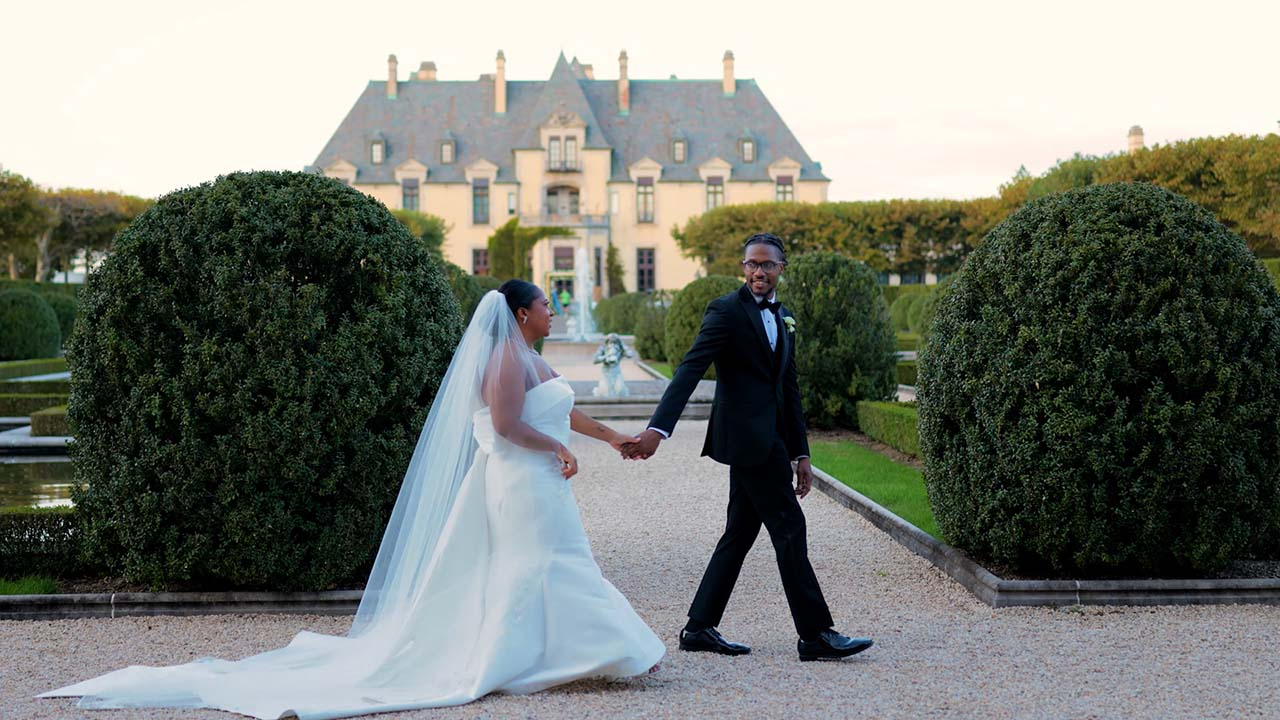
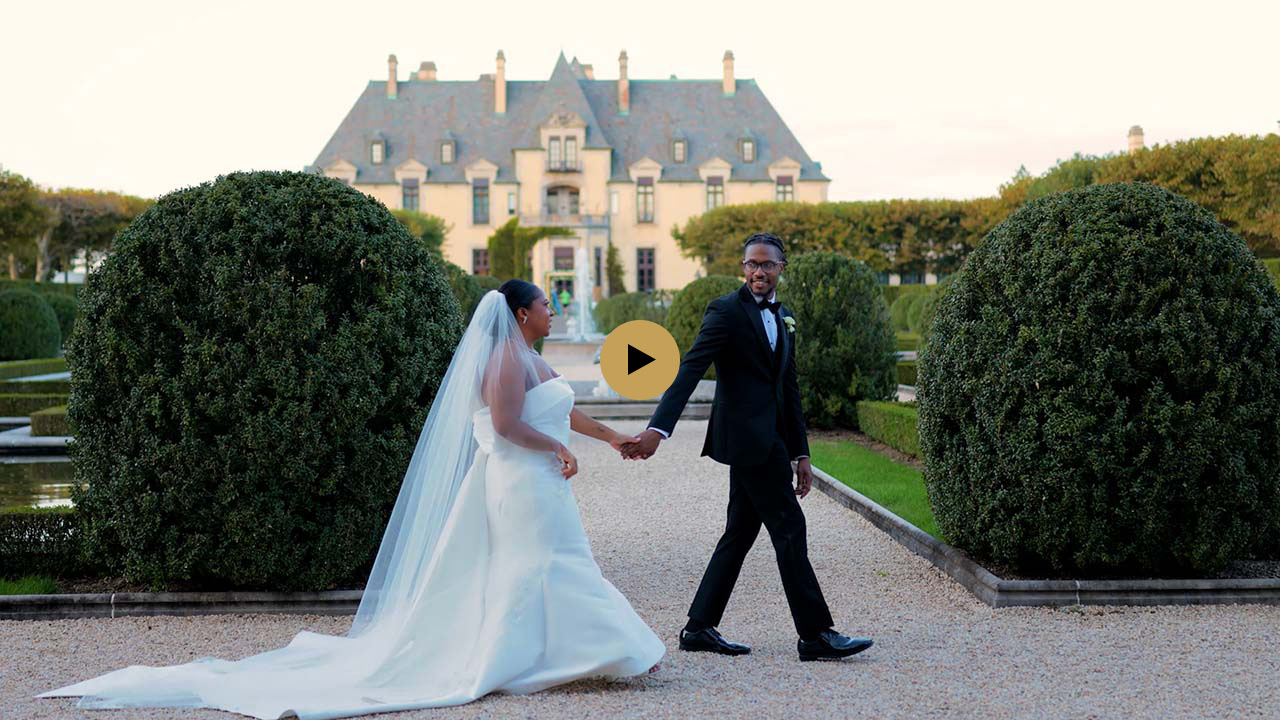
Add files via upload

Changed region(s): [[0.4688, 0.4278, 0.5312, 0.55]]

diff --git a/css/styles.css b/css/styles.css
@@ -148,8 +148,23 @@
 .two-row-small .portfolio-overlay {
     transition: opacity 0.3s ease;
 }
-.two-row-small:hover .portfolio-overlay {
+.two-row-small:hover .portfolio-overlay,
+.two-row-large:hover .portfolio-overlay {
     opacity: 1;
+}
+.two-row-large .portfolio-overlay {
+    justify-content: center;
+    align-items: center;
+}
+.two-row-large .play-button {
+    position: static;
+    transform: none;
+    width: clamp(44px, 6vw, 80px);
+    height: clamp(44px, 6vw, 80px);
+    font-size: clamp(1rem, 2.5vw, 2rem);
+}
+.two-row-large .play-button:hover {
+    transform: scale(1.1);
 }
 @media (max-width: 900px) {
     .two-row-small-row {
@@ -537,14 +552,60 @@
    ============================================ */
 
 .services.services-simple {
-    padding: 4rem 0 2rem 0;
+    padding: 4rem 0 4rem 0;
     background: var(--secondary-color);
 }
 
 .services-grid-4 {
     display: grid;
     grid-template-columns: repeat(4, 1fr);
-    gap: 2rem;
+    gap: 3rem;
+}
+
+.services-grid-3 {
+    display: grid;
+    grid-template-columns: repeat(3, 1fr);
+    gap: 3rem;
+    margin-top: 2rem;
+    padding-top: 2rem;
+    border-top: 1px solid var(--accent-color);
+}
+
+.service-value {
+    padding: 0.5rem 0.5rem 0.5rem;
+    text-align: center;
+}
+
+.service-value-icon {
+    display: block;
+    font-size: 1.4rem;
+    margin-bottom: 0.5rem;
+}
+
+.service-value-icon svg {
+    width: 28px;
+    height: 28px;
+    color: var(--accent-color);
+    display: inline-block;
+}
+
+.service-value h3 {
+    color: var(--accent-color);
+    font-size: 1.1rem;
+    font-weight: 600;
+    margin-bottom: 0.6rem;
+}
+
+.service-value p {
+    color: var(--text-light);
+    font-size: 0.9rem;
+    line-height: 1.6;
+}
+
+@media (max-width: 768px) {
+    .services-grid-3 {
+        grid-template-columns: 1fr;
+    }
 }
 
 .service-square {
@@ -680,6 +741,19 @@ body {
     font-weight: 300;
     letter-spacing: 3px;
     color: var(--accent-color);
+    display: flex;
+    flex-direction: column;
+    line-height: 1.2;
+    font-family: "Cormorant Garamond", ui-serif, Georgia, serif;
+}
+
+.brand-sub {
+    font-size: 0.6rem;
+    font-weight: 400;
+    letter-spacing: 2px;
+    color: var(--text-light);
+    text-transform: uppercase;
+    font-family: "Inter", ui-sans-serif, system-ui, sans-serif;
 }
 
 .nav-menu {
@@ -931,6 +1005,12 @@ body {
     color: #fff;
     margin: 0;
 }
+.two-row-large .compact-bottom-info .portfolio-title {
+    font-size: clamp(0.8rem, 2vw, 1.3rem);
+}
+.two-row-large .compact-bottom-info .portfolio-date {
+    font-size: clamp(0.65rem, 1.4vw, 0.9rem);
+}
 .compact-bottom-info .portfolio-date {
     font-size: 0.65rem;
     opacity: 0.8;
@@ -1122,10 +1202,38 @@ body {
 }
 
 .footer-content {
-    display: grid;
-    grid-template-columns: repeat(auto-fit, minmax(250px, 1fr));
+    display: flex;
+    justify-content: space-between;
+    align-items: center;
     gap: 2rem;
     margin-bottom: 2rem;
+    flex-wrap: wrap;
+}
+
+.footer-brand h3 {
+    color: var(--accent-color);
+    font-size: 1.3rem;
+    font-weight: 300;
+    margin-bottom: 0.4rem;
+    display: flex;
+    flex-direction: column;
+    line-height: 1.2;
+    font-family: "Cormorant Garamond", ui-serif, Georgia, serif;
+}
+
+.footer-brand p {
+    color: var(--text-light);
+    font-size: 0.9rem;
+    margin: 0;
+}
+
+.footer-content .footer-links {
+    display: flex;
+    flex-direction: row;
+    gap: 2rem;
+    list-style: none;
+    padding: 0;
+    margin: 0;
 }
 
 .footer-section h3 {

diff --git a/index.html b/index.html
@@ -5,7 +5,7 @@
     <meta name="viewport" content="width=device-width, initial-scale=1.0">
     <meta name="description" content="Professional wedding video editor portfolio. Capturing your most precious moments with cinematic storytelling.">
     <meta name="referrer" content="strict-origin-when-cross-origin">
-    <title>Wedding Video Editor | Professional Cinematography</title>
+    <title>Wedding Post-production | Ruzeldave</title>
     <link rel="stylesheet" href="css/styles.css">
 </head>
 <body>
@@ -14,13 +14,12 @@
         <div class="container">
             <div class="navbar-content">
                 <div class="logo">
-                    <h1>Wedding Films</h1>
+                    <h1>Ruzeldave<span class="brand-sub">Wedding Post-Production</span></h1>
                 </div>
                 <ul class="nav-menu">
                     <li><a href="#home">Home</a></li>
                     <li><a href="#portfolio">Portfolio</a></li>
                     <li><a href="#about">About</a></li>
-                    <li><a href="#pricing">Pricing</a></li>
                 </ul>
                 <div class="hamburger">
                     <span></span>
@@ -35,8 +34,8 @@
 
     <section id="home" class="hero">
         <div class="hero-content">
-            <h2 class="hero-title">Your Love Story, Beautifully Told</h2>
-            <p class="hero-subtitle">Cinematic wedding videos that capture the emotion and joy of your special day</p>
+            <h2 class="hero-title">Every Love Story, Beautifully Told</h2>
+            <p class="hero-subtitle">Timeless cinematic wedding post-production for filmmakers and creators</p>
             <a href="#portfolio" class="cta-button" style="margin-top:2rem;">Portfolio</a>
         </div>
         <div class="hero-bg"></div>
@@ -54,9 +53,9 @@
                 </div>
                 <div class="about-text">
                     <h2 class="section-title">About Me</h2>
-                    <p>With over 8 years of experience in wedding cinematography, I specialize in capturing the authentic emotions and unforgettable moments that make your wedding day unique.</p>
-                    <p>My approach combines cinematic storytelling with a documentary-style sensitivity. I believe every wedding has a unique story—and my job is to tell it beautifully.</p>
-                    <p>I'm passionate about creating films that you'll treasure for a lifetime, combining stunning visuals with genuine emotion.</p>
+                    <p>With over 4 years of experience in timeless wedding post-production, I specialize in keeping the authentic emotions and unforgettable moments that make everywedding day unique.</p>
+                    <p>I combine cinematic storytelling with a documentary-style sensitivity. I believe every wedding has a unique story—and my job is to tell it beautifully. Maintaining the brand of every filmmaker I work with.</p>
+                    <p>I'm passionate about crafting films that the couple will treasure for a lifetime.</p>
                 </div>
             </div>
         </div>
@@ -68,21 +67,15 @@
             <h2 class="section-title">Featured Work</h2>
             <div class="two-row-grid">
                 <div class="two-row-large">
-                    <div class="video-container">
-                                                <div style="position:relative;aspect-ratio:16/9;">
-                                                    <iframe
-                                                                loading="lazy" title="Gumlet video player"
-                                                                src="https://play.gumlet.io/embed/69d7bd2ae2653946cb388377"
-                                                                style="border:none; position: absolute; top: 0; left: 0; height: 100%; width: 100%;"
-                                                            referrerpolicy="origin"
-                                                            allow="accelerometer; gyroscope; autoplay; encrypted-media; picture-in-picture; fullscreen;clipboard-write;">
-                                                            </iframe>
-                                                </div>
-                        <h3 class="highlight-badge">HIGHLIGHT</h3>
-                        <div class="video-info">
-                            <span class="portfolio-label">Featured</span>
-                            <h3>Dominique & Sean</h3>
-                            <p>December 2024</p>
+                    <div class="portfolio-image">
+                        <img src="assets/images/Dominique and Sean.jpg" alt="Dominique and Sean wedding highlight">
+                        <span class="compact-label">Highlight</span>
+                        <div class="compact-bottom-info">
+                            <h3 class="portfolio-title">Dominique & Sean</h3>
+                            <p class="portfolio-date">December 2024</p>
+                        </div>
+                        <div class="portfolio-overlay">
+                            <button class="play-button play-button-sm" aria-label="Play video">▶</button>
                         </div>
                     </div>
                 </div>
@@ -115,7 +108,7 @@
                     </div>
                     <div class="two-row-small compact-item">
                         <div class="portfolio-image">
-                            <img src="assets/images/ Alexandra and Jacob .jpg" alt="">
+                            <img src="assets/images/Alexandra and Jacob  .jpg" alt="">
                             <span class="compact-label">Highlight</span>
                             <div class="compact-bottom-info">
                                 <h3 class="portfolio-title">Alexandra & Jacob</h3>
@@ -147,7 +140,7 @@
     <!-- Services Section -->
     <section id="services" class="services services-simple">
         <div class="container">
-            <h2 class="section-title services-title-left">Wedding Post Production</h2>
+            <h2 class="section-title services-title-left">Wedding Post-Production</h2>
             <div class="services-grid-4">
                 <div class="service-square">
                     <h3>Highlight</h3>
@@ -158,42 +151,48 @@
                     <p>1-minute fast-paced teaser video, perfect for sharing on social media soon after your wedding.</p>
                 </div>
                 <div class="service-square">
-                    <h3>Feature Film</h3>
-                    <p>15-30 minute feature film with full storytelling, speeches, and all the emotional highlights of your celebration.</p>
+                    <h3>Short Film</h3>
+                    <p>10-15 minute feature film with full storytelling, speeches, and all the emotional highlights of your celebration.</p>
                 </div>
                 <div class="service-square">
-                    <h3>Fulls Edit</h3>
+                    <h3>Full Edit</h3>
                     <p>Complete documentary-style edit or full-length coverage of your ceremony and reception, preserving every detail.</p>
+                </div>
+            </div>
+            <div class="services-grid-3">
+                <div class="service-value">
+                    <span class="service-value-icon"><svg xmlns="http://www.w3.org/2000/svg" viewBox="0 0 24 24" fill="currentColor"><path d="M13 2L3 14h9v8l9-12h-9V2z"/></svg></span>
+                    <h3>Scale Faster</h3>
+                    <p>More bookings without the editing bottleneck</p>
+                </div>
+                <div class="service-value">
+                    <span class="service-value-icon"><svg xmlns="http://www.w3.org/2000/svg" viewBox="0 0 24 24" fill="currentColor"><path d="M18 4l2 3h-3l-2-3h-2l2 3h-3l-2-3H8l2 3H7L5 4H4a2 2 0 0 0-2 2v12a2 2 0 0 0 2 2h16a2 2 0 0 0 2-2V4h-4z"/></svg></span>
+                    <h3>Free Test Edit</h3>
+                    <p>Let me know how to edit it your way</p>
+                </div>
+                <div class="service-value">
+                    <span class="service-value-icon"><svg xmlns="http://www.w3.org/2000/svg" viewBox="0 0 24 24" fill="currentColor"><path d="M12 21.35l-1.45-1.32C5.4 15.36 2 12.28 2 8.5 2 5.42 4.42 3 7.5 3c1.74 0 3.41.81 4.5 2.09C13.09 3.81 14.76 3 16.5 3 19.58 3 22 5.42 22 8.5c0 3.78-3.4 6.86-8.55 11.54L12 21.35z"/></svg></span>
+                    <h3>Consistent Quality</h3>
+                    <p>I learn your style and maintain your brand</p>
                 </div>
             </div>
         </div>
     </section>
-
-    <!-- Footer -->
     <footer class="footer">
         <div class="container">
             <div class="footer-content">
-                <div class="footer-section">
-                    <h3>Wedding Films</h3>
-                    <p>Cinematic wedding videos that capture your most precious moments.</p>
+                <div class="footer-brand">
+                    <h3>Ruzeldave<span class="brand-sub">Wedding Post-Production</span></h3>
+                    <p>Timeless cinematic wedding video editing that captures every precious moment.</p>
                 </div>
-                <div class="footer-section">
-                    <h4>Quick Links</h4>
-                    <ul class="footer-links">
-                        <li><a href="#home">Home</a></li>
-                        <li><a href="#portfolio">Portfolio</a></li>
-                        <li><a href="#about">About</a></li>
-                        
-                    </ul>
-                </div>
-                <div class="footer-section">
-                    <h4>Contact</h4>
-                    <p><strong>Email:</strong> </p>
-                    <p><strong>Phone:</strong> </p>
-                </div>
+                <ul class="footer-links">
+                    <li><a href="#home">Home</a></li>
+                    <li><a href="#portfolio">Portfolio</a></li>
+                    <li><a href="#about">About</a></li>
+                </ul>
             </div>
             <div class="footer-bottom">
-                <p>&copy; 2026 Wedding Films. All rights reserved.</p>
+                <p>&copy; 2026 Ruzeldave. All rights reserved.</p>
             </div>
         </div>
     </footer>

diff --git a/js/script.js b/js/script.js
@@ -93,6 +93,7 @@ document.querySelectorAll('.portfolio-item').forEach(item => {
 const videoUrls = {
     // Use a known embeddable Vimeo video for all items for testing
     'Michael & Jessica': 'https://play.gumlet.io/embed/69d7bd2ae2653946cb388377',
+    'Dominique & Sean': 'https://play.gumlet.io/embed/69d7bd2ae2653946cb388377',
     'Douglas & Nick': 'https://play.gumlet.io/embed/69d7acd779cd218090ffb26c',
     'Lauren & Johnny': 'https://play.gumlet.io/embed/69d7b39ae2653946cb3798be',
     'Alexandra & Jacob': 'https://play.gumlet.io/embed/69d7b68779cd21809000aa64',
@@ -145,13 +146,12 @@ function closeVideoModal() {
 document.querySelectorAll('.play-button').forEach(button => {
     button.addEventListener('click', (e) => {
         e.preventDefault();
-        
-        // Get the parent portfolio item
-        const portfolioItem = button.closest('.portfolio-item');
-        const title = portfolioItem.querySelector('.portfolio-title').textContent;
-        
-        // Open video modal
-        openVideoModal(title);
+
+        const container = button.closest('.portfolio-item, .portfolio-image');
+        const titleEl = container && container.querySelector('.portfolio-title');
+        if (titleEl) {
+            openVideoModal(titleEl.textContent.trim());
+        }
     });
 });
 
@@ -339,32 +339,6 @@ function classicTabGalleryExpand(imgs) {
     expandImg.src = imgs.src;
     imgText.innerHTML = imgs.alt;
     modal.style.display = "block";
-}
-
-// ============================================
-// TWO-ROW GALLERY PLAY BUTTON → VIDEO MODAL
-// ============================================
-document.querySelectorAll('.two-row-gallery .play-button').forEach(button => {
-    button.addEventListener('click', (e) => {
-        e.preventDefault();
-        const titleEl = button.closest('.portfolio-image').querySelector('.portfolio-title');
-        if (titleEl) {
-            openVideoModal(titleEl.textContent);
-        }
-    });
-});
-
-// ============================================
-// FEATURED VIDEO CONTAINER PLAY BUTTON
-// ============================================
-const featuredPlayBtn = document.getElementById('featuredPlayBtn');
-const featuredVideo = document.getElementById('featuredVideo');
-if (featuredPlayBtn && featuredVideo) {
-    featuredPlayBtn.addEventListener('click', function () {
-        const container = this.closest('.video-container');
-        featuredVideo.src = 'https://play.gumlet.io/embed/69d7514c79cd218090f67736';
-        container.classList.add('playing');
-    });
 }
 
 // ============================================